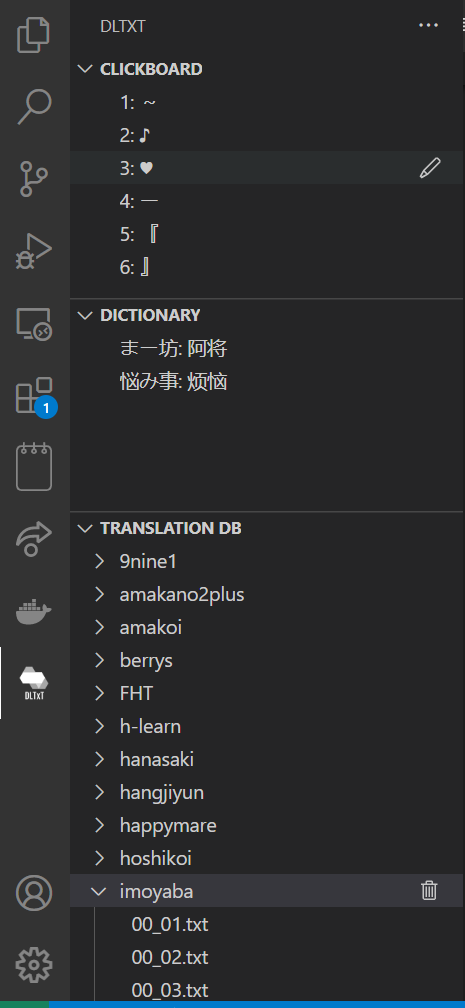
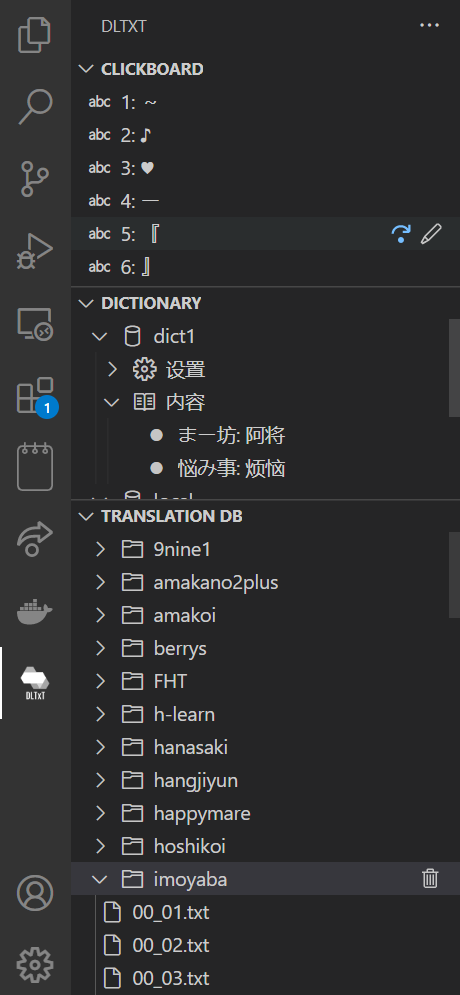
update readme

diff --git a/README.md b/README.md
@@ -1,4 +1,4 @@
-# DLTXT：双行文本翻译解决方案
+# DLTXT：双行文本翻译解决方案 v3
 
 文字游戏汉化时通常会采用一种叫“双行文本”的格式。这种格式没有固定的语法，但是大多数符合以下特征
 ```
@@ -8,9 +8,11 @@
 <原文标签2>原文2
 <译文标签2>译文2
 ```
-本插件为以上格式的双行文本的翻译校对提供全套解决方案，提高工作效率，减少错误，减少不必要的重复劳动
+本项目作为Visual Studio Code的插件为以上格式的双行文本的翻译校对提供全套解决方案，提高工作效率，减少错误，减少不必要的重复劳动
 
-**[视频教程](https://www.bilibili.com/video/BV1Sh4y1R7ii/)**
+**[视频教程（2.21版以前的功能）](https://www.bilibili.com/video/BV1Sh4y1R7ii/)**
+
+关于2.22版以后的功能的视频教程有空了会出
 
 注：2.28更新了部分快捷键默认配置，如果更改过默认配置可能需要重新绑定快捷键（Settings - Keyboard Shortcuts）。
 
@@ -21,7 +23,7 @@
 - [侧边栏](#侧边栏)
 - [键盘快捷键](#键盘快捷键)
 - [批量编辑](#批量编辑)
-- [术语翻译同步](#术语翻译同步)
+- [术语库](#术语库)
 - [解封包相关操作](#解封包相关操作)
 - [翻译数据库](#翻译数据库)
 - [其他](#其他)
@@ -210,42 +212,54 @@ DLTXT默认支持以下格式（用横线隔开）
 在右键菜单或命令框中选择“复制原文到未翻译的译文行”即可
 
   
-## 术语翻译同步
-#### 简介
-这个功能主要用于术语的翻译统一，能把组内所有人打开的文本中的术语高亮，并显示对应释义，来减少术语翻译不统一的情况。
-  - 选中文本中一个词语，可右键定义为该词为术语
-  - 对术语的翻译会同步到云端，全组共享
-  - 该游戏所有出现的术语都会显示高亮
-  - 把鼠标放到高亮的术语上可以查看其对应翻译
+## 术语库
+### 简介
+分为本地术语库和远程术语库。这个功能主要用于术语的翻译统一，打开文本时，术语库中存在的词语会显示高亮，并显示对应释义，来减少术语翻译不统一的情况。当使用远程术语库时，能使工作组中多人同时连接同一个术语库，以达到术语翻译同步的效果。
+
 
 ![SimpleTM](https://github.com/jsc6924/translation-assistant/blob/master/imgs/simpletm.png?raw=true)
 
-#### 具体使用方法
+![SimpleTM-UI](https://github.com/jsc6924/translation-assistant/blob/master/imgs/simpletm-ui.png?raw=true)
+
+### 添加术语库
+![SimpleTM-UI](https://github.com/jsc6924/translation-assistant/blob/master/imgs/dict-add.png?raw=true)
+
+- 用vscode打开需要翻译的文本**所在的文件夹**
+- 点击图中的按钮添加术语库
+- 按提示选择本地/远程
+- 然后为术语库起一个名字（多个术语库名字不能相同）
+
+#### 本地术语库
+在新建的那个术语库下的设置中选一个路径即可
+
+#### 远程术语库（SimpleTM）
 
 1. 访问SimpleTM服务器[simpletm.jscrosoft.com](https://simpletm.jscrosoft.com)并注册账号
-2. 在你的主页下方创建一个项目，项目名称不能和别人已经创建的项目重复
-  - 如果你的组里还有其他组员需要加入当前项目，请在主页中点击项目名称，输入该组员的用户id，并给予其相应权限，点击`设置权限`即可。设置成功后，组员的主页中会显示该项目。
-3. 在主页找到你的`APIToken`，并复制
-4. 用vscode打开需要翻译的文本**所在的文件夹**
-5. 在vscode中左下角打开设置(Settings)，搜索`dltxt`，在`SimpleTM：User Name`处填写SimpleTM的用户名
-6. 在`SimpleTM：Api Token`处填入刚才复制的APIToken
-7. 左上角搜索栏下面选择Workspace，在`SimpleTM：Project`处输入第2步创建的项目的名称。这一步会让vscode认为当前文件夹里的所有文本都是这个项目的文本
-8. 选中你想同步的词（原文），在右键菜单中，选择`DLTXT: 添加词条`，输入译文翻译并回车，词条就被同步到云端了，并且项目内所有人的文本中这个词条都会被高亮，把鼠标移动到高亮原文上能看到对应释义。
-9. 如果想更改释义，选中文本，在右键菜单中，选择`DLTXT: 更新词条`，输入译文并回车即可。如果想删除词条，则什么都不输入直接回车。
-10. 插件默认每隔300秒回自动同步云端词条，可在设置中修改默认间隔，也可使用dltxt侧边栏中的按钮手动同步。
+2. 在你的主页下方创建一个项目，项目名称不能和别人已经创建的项目重复，请尽量使用英文和数字
+    - 如果你的组里还有其他组员需要加入当前项目，请在主页中点击项目名称，输入该组员的用户id，并给予其相应权限，点击`设置权限`即可。设置成功后，组员的主页中会显示该项目。（权限的具体解释见下一节）
+3. 远程术语库需要设置以下四项：
+    - 服务器网址：默认为`https://simpletm.jscrosoft.com/`
+    - 用户名：SimpleTM的账号名
+    - APIToken：在你的SimpleTM主页中可以找到，复制黏贴即可
+    - 项目名：第2步创建的项目名
 
-（注：SimpleTM是开源的：[Github](https://github.com/jszhtian/SimpleTM)，如有需要可以自己搭服务器）
+#### 远程术语库SimpleTM项目权限
 
-#### 侧边栏
-从2.24版本开始添加了dltxt专用的侧边栏，连接SimpleTM以后可以在侧边栏内查看当前项目所有术语。
+  - 无：用户无权访问该项目
+  - 只读：用户只能查寻词条，但不能对词条进行更新
+  - 读写：用户可以读取词条、更新词条、增加新词条
+  - 管理员：在读写权限的基础上，用户还能改变当前项目中其他用户的权限，并可以删除该项目
 
-可以使用侧边栏复制释义，也可以编辑、删除词条。
+### 术语库使用
+1. 设置好至少一个术语库后，打开一个文本，选中你想同步的词（原文），在右键菜单中，选择`添加术语库词条`
+2. 如果想更改释义，选中文本，在右键菜单中，选择`更新术语库词条`，输入译文并回车即可。如果想删除词条，则什么都不输入直接回车。
+3. 可以使用侧边栏的UI复制释义，也可以编辑、删除词条。
 
-#### 有关SimpleTM项目权限
-- 无：用户无权访问该项目
-- 只读：用户只能查寻词条，但不能对词条进行更新
-- 读写：用户可以读取词条、更新词条、增加新词条
-- 管理员：在读写权限的基础上，用户还能改变当前项目中其他用户的权限，并可以删除该项目
+### 注意事项
+
+1. 插件默认每隔300秒回自动同步云端词条，可在设置中修改默认间隔，也可使用dltxt侧边栏中的按钮手动同步
+2. SimpleTM是开源的：[Github](https://github.com/jszhtian/SimpleTM)，如有需要可以自己搭服务器
+3. 不管是本地还是远程，术语库的代码目前并没有为储存大量数据做过优化。因此不建议在术语库中储存超过一千条以上的数据。
 
 
 ## 解封包相关操作
@@ -343,9 +357,10 @@ pack: #配置替换操作
 
 #### 使用建议
 为了更好的体验，建议对vscode进行如下设置：
-- 右下角打开设置`Settings`,
-  1. 搜索 `font family` 
-  2. 把Workspace的Editor：Font Family设置成`SimHei`
+
+右下角打开设置`Settings`,
+  1. 搜索 `auto save`, 把User的Files：Auto Save改为afterDelay（自动保存）
+  2. 搜索 `font family`，把Workspace的Editor：Font Family设置成`SimHei`（黑体）
 
 ---
 ## 开发
@@ -358,6 +373,10 @@ vsce publish
 
 ---
 ## Release Notes
+#### 3.1
+- 支持本地术语库
+#### 3.0
+- 重写术语同步模块，支持连接多个术语库
 #### 2.34
 - 侧边栏支持翻译数据库
 - 从翻译数据库中移除文件/文件夹和重新加载功能移动到侧边栏中
